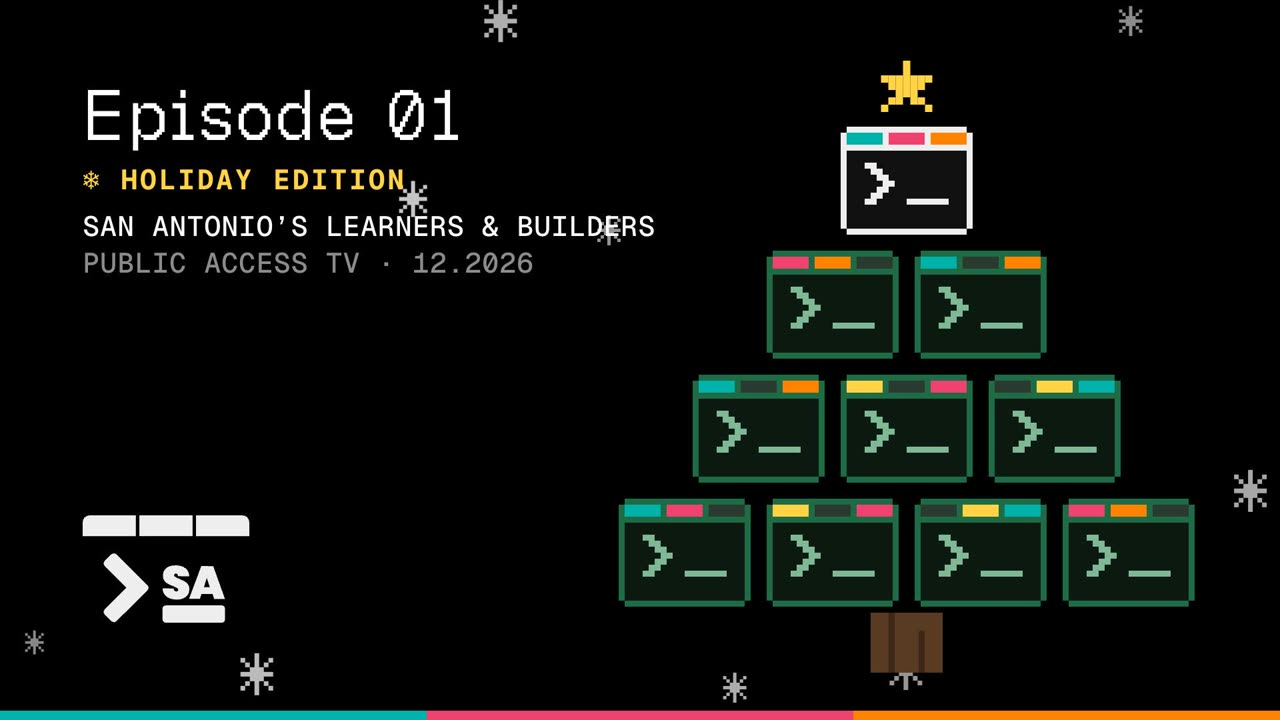
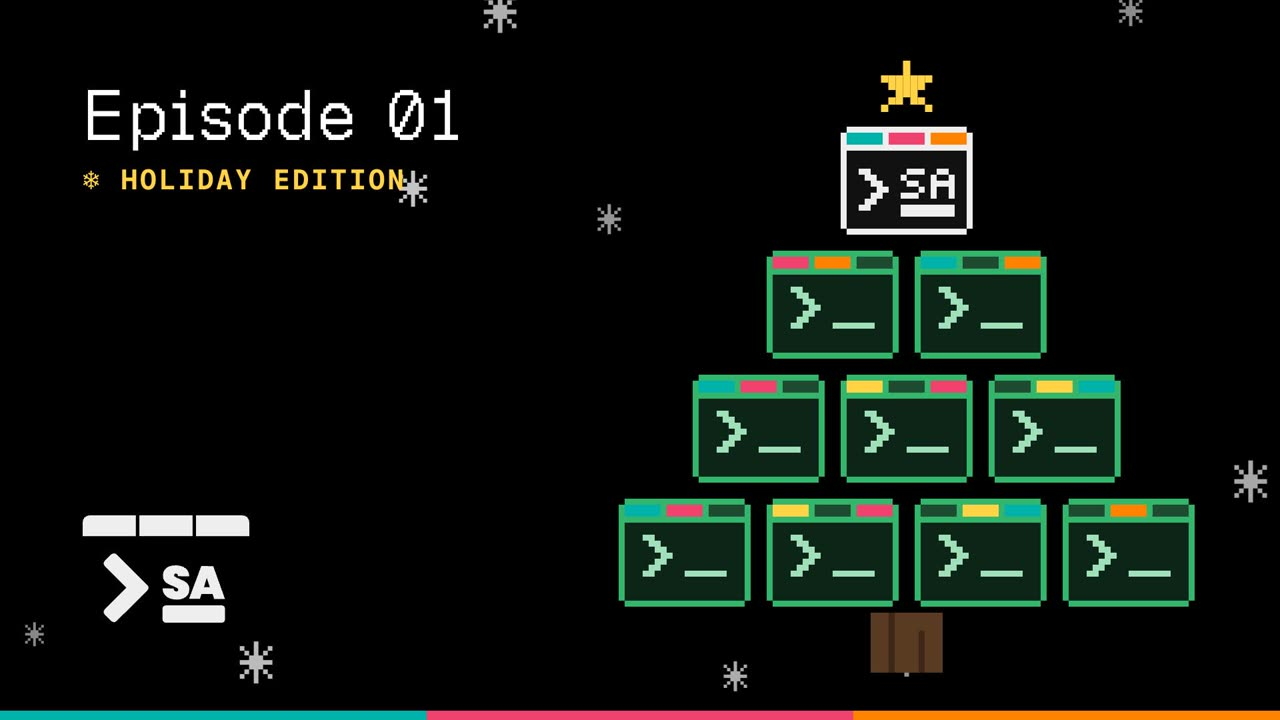
Make the tree episode 1's desk, with the DEVSA window on top
Episode 1's desk was the alt logo with snow, which on camera read as the
logo with weather, not as Christmas, and its opener tree had a plain >_ in
the top window, so nothing in the tree was DEVSA's own mark. The desk at
/slides/desk-ep1 is now the opener's tree, sized for the monitor's place in
the frame: brighter evergreen windows, their tabs as lights, a larger star,
and the snow passing behind the whole tree instead of through its gaps. Its
top window is the DEVSA mark in pixels, the three tabs over >SA and the
cursor bar, and the opener's tree now draws the same window in the same
greens, so viewers watch the tree build and then find it on the desk.

The opener also loses the learners-and-builders and public-access lines under
Holiday edition, as episode 2's did.

diff --git a/public/slides/desk-ep1/index.html b/public/slides/desk-ep1/index.html
@@ -1,15 +1,14 @@
 <!doctype html>
 <html lang="en"><head><meta charset="utf-8">
 <meta name="robots" content="noindex">
-<meta name="viewport" content="width=device-width,initial-scale=1"><title>DEVSA desk, Christmas</title>
-<!-- DEVSA TV episode 1 (December 2026, the Holiday edition): the TVSA studio desk monitor.
-     The alt logo centred at 40% of the width (unaltered; drawn at 90% so its white doesn't bloom on camera; the snow
-     passes behind it, never through it), with the deck's pixel snowflakes falling in three clear sizes, mostly white,
-     the coloured ones always among the large, and plus-shaped star dots twinkling between them.
-     Built for camera scale: on the desk the monitor is about 1/6 of its pixels in the broadcast frame, so the smallest
-     piece is 6 px per flake pixel (a 42 px flake) and the star dots are 12 px units.
-     ?bg=0a0a0a tries a near-black ground (default pure black). Loops every 12.8 s. Served at devsa.community/slides/<this folder> (unlisted in lib/slides.ts). The video exports and their
-     export.cjs live with the source in ~/Downloads/devsa-tvsa-desk-ep1 and -ep2. -->
+<meta name="viewport" content="width=device-width,initial-scale=1"><title>DEVSA desk, Christmas tree</title>
+<!-- DEVSA TV episode 1 (December 2026, the Holiday edition): the TVSA studio desk monitor, tree version.
+     The opener's tree, built for camera scale: pixel windows in brighter evergreen, their tabs as lights twinkling in
+     the tab colours and gold, a gold pixel star, a trunk. The top window is the DEVSA mark in pixels: the three tabs in
+     teal, pink and orange over a dark window with >SA and the cursor bar (the DEVSA window sticker's drawing).
+     The deck's pixel snow falls in three sizes behind the tree, mostly white, the coloured ones among the large.
+     ?bg=0a0a0a tries a near-black ground (default pure black). Loops every 12.8 s. Served at devsa.community/slides/desk-ep1 (unlisted in lib/slides.ts). The video exports and their
+     export.cjs live with the source in ~/Downloads/devsa-tvsa-desk-ep1. -->
 <style>
 html,body{margin:0;height:100%;background:#000;overflow:hidden}
 canvas{display:block;width:100vw;height:100vh;object-fit:contain}
@@ -19,46 +18,82 @@ canvas{display:block;width:100vw;height:100vh;object-fit:contain}
 <script>
 const W = 1920, H = 1080, g = document.getElementById("c").getContext("2d")
 const BG = "#" + ((new URLSearchParams(location.search).get("bg") || "000000").replace(/[^0-9a-f]/gi, "").slice(0, 6) || "000000")
-const COLORS = ["#00b2a9", "#ef426f", "#ff8200"]
-const LOOP = 12800
-const LOGO = new Image(); LOGO.src = "devsa-alt-logo.svg"
-const LW = 768, LH = LW * 551.77 / 735.7, LX = (W - LW) / 2, LY = (H - LH) / 2
+const TEAL = "#00b2a9", PINK = "#ef426f", ORANGE = "#ff8200", GOLD = "#ffd343", COLORS = [TEAL, PINK, ORANGE]
+const LIGHTS = [TEAL, PINK, ORANGE, GOLD]
+const LOOP = 12800, TAU = Math.PI * 2
 
-// the deck's pixel snowflake, in three sizes
+// ---- the tree: 1 + 2 + 3 + 4 windows, each 22 x 18 pixels ----
+const PX = 10, WW = 22 * PX, WH = 18 * PX, GAP = 24, CX = W / 2, TOP = 150
+const WINS = []
+for (let r = 0; r < 4; r++) { const n = r + 1, rowW = n * WW + (n - 1) * GAP; for (let i = 0; i < n; i++) WINS.push([Math.round(CX - rowW / 2 + i * (WW + GAP)), TOP + r * (WH + GAP), r === 0]) }
+
+function cell(x, y, col, cx, cy, w = 1, h = 1) { g.fillStyle = col; g.fillRect(x + cx * PX, y + cy * PX, w * PX, h * PX) }
+
+// an evergreen window: frame, dark body, a >_ face, three tabs as lights
+function evergreen(x, y, k, t) {
+  const FRAME = "#34b56c", BODY = "#0d2418", FACE = "#9fe0b8"
+  cell(x, y, FRAME, 1, 0, 20, 18); cell(x, y, FRAME, 0, 1, 22, 16); cell(x, y, BODY, 1, 4, 20, 13)
+  for (let j = 0; j < 3; j++) {
+    const on = Math.sin(TAU * (t / LOOP) * 3 + k * 1.7 + j * 2.3) > -0.3
+    cell(x, y, on ? LIGHTS[(k * 3 + j) % 4] : "#1d4a31", 1 + j * 7, 1, 6, 2)
+  }
+  for (const [cx, cy] of [[4, 7], [5, 8], [6, 9], [7, 10], [6, 11], [5, 12], [4, 13]]) cell(x, y, FACE, cx, cy, 2, 1)
+  cell(x, y, FACE, 11, 13, 7, 1)
+}
+
+// the top window: the DEVSA mark in pixels
+function devsa(x, y) {
+  const INK = "#eeeeee"
+  cell(x, y, INK, 1, 0, 20, 18); cell(x, y, INK, 0, 1, 22, 16); cell(x, y, "#111", 1, 4, 20, 13)
+  cell(x, y, TEAL, 1, 1, 6, 2); cell(x, y, PINK, 8, 1, 6, 2); cell(x, y, ORANGE, 15, 1, 6, 2)
+  for (const [cx, cy] of [[3, 7], [4, 8], [5, 9], [6, 10], [5, 11], [4, 12], [3, 13]]) cell(x, y, INK, cx, cy, 2, 1)
+  const S = [".###", "#...", ".##.", "...#", "###."], A = [".##.", "#..#", "####", "#..#", "#..#"]
+  for (let r = 0; r < 5; r++) for (let c = 0; c < 4; c++) {
+    if (S[r][c] === "#") cell(x, y, INK, 10 + c, 7 + r)
+    if (A[r][c] === "#") cell(x, y, INK, 15 + c, 7 + r)
+  }
+  cell(x, y, INK, 10, 13, 9, 2)
+}
+
+const STAR = ["...#...", "...#...", "#######", ".#####.", "..###..", ".##.##.", "#.....#"]
+function star(t) {
+  const s = 14, x0 = CX - 3.5 * s, y0 = TOP - 8 * s
+  g.fillStyle = Math.sin(TAU * (t / LOOP) * 4) > -0.5 ? GOLD : "#e0a800"
+  STAR.forEach((row, ry) => [...row].forEach((ch, rx) => { if (ch === "#") g.fillRect(x0 + rx * s, y0 + ry * s, s, s) }))
+}
+function trunk() {
+  const yb = TOP + 4 * (WH + GAP) - GAP + 2 * PX, tw = 10 * PX, th = 8 * PX
+  g.fillStyle = "#6b4528"; g.fillRect(CX - tw / 2, yb, tw, th)
+  g.fillStyle = "#4a2f1a"; g.fillRect(CX - tw / 2 + 2 * PX, yb, PX, th); g.fillRect(CX + PX, yb + 2 * PX, PX, th - 2 * PX)
+}
+
+// ---- the deck's pixel snow, three sizes ----
 const FLAKE = ["...#...", "#..#..#", ".#.#.#.", "..###..", "#######", "..###..", ".#.#.#.", "#..#..#", "...#..."]
 let r = 7; const rnd = () => (r = (r * 16807) % 2147483647) / 2147483647
 const SIZES = [{ px: 6, n: 10, laps: 2, a: .7 }, { px: 9, n: 8, laps: 2, a: .85 }, { px: 12, n: 8, laps: 1, a: 1 }]
 const FLAKES = []
 SIZES.forEach((s) => { for (let i = 0; i < s.n; i++) FLAKES.push({ ...s, x: rnd() * W, ph: rnd(), sway: 24 + rnd() * 36, col: "#fff" }) })
-// the coloured flakes: four of the large ones, one per tab colour plus teal again
 FLAKES.filter((f) => f.px === 12).slice(0, 4).forEach((f, i) => { f.col = COLORS[i % 3] })
 function flake(f, t) {
-  // each flake crosses the screen once or twice per loop, so the loop is seamless
   const k = ((t / LOOP) * f.laps + f.ph) % 1, h = 9 * f.px
-  const y = -h + k * (H + 2 * h), x = f.x + Math.sin((t / LOOP) * Math.PI * 2 * f.laps + f.ph * 6) * f.sway
+  const y = -h + k * (H + 2 * h), x = f.x + Math.sin((t / LOOP) * TAU * f.laps + f.ph * 6) * f.sway
   g.globalAlpha = f.a; g.fillStyle = f.col
   FLAKE.forEach((row, ry) => [...row].forEach((c, rx) => { if (c === "#") g.fillRect(Math.round(x + rx * f.px), Math.round(y + ry * f.px), f.px, f.px) }))
-  g.globalAlpha = 1
-}
-// star dots: a plus of 12 px pixels in the tab colours, twinkling in place
-const DOTS = Array.from({ length: 12 }, (_, i) => [80 + rnd() * (W - 160), 70 + rnd() * (H - 140), COLORS[i % 3], rnd() * Math.PI * 2])
-function dot([x, y, col, ph], t) {
-  const k = .5 + .5 * Math.sin((t / LOOP) * Math.PI * 4 + ph); if (k < .2) return
-  const s = 12, X = Math.round(x / s) * s, Y = Math.round(y / s) * s
-  g.globalAlpha = .35 + .65 * k; g.fillStyle = col
-  g.fillRect(X, Y, s, s); g.fillRect(X - s, Y, s, s); g.fillRect(X + s, Y, s, s); g.fillRect(X, Y - s, s, s); g.fillRect(X, Y + s, s, s)
   g.globalAlpha = 1
 }
 
 function draw(t) {
   g.fillStyle = BG; g.fillRect(0, 0, W, H)
-  DOTS.forEach((d) => dot(d, t))
-  FLAKES.forEach((f) => flake(f, t))
-  g.fillStyle = BG; g.fillRect(LX - 28, LY - 28, LW + 56, LH + 56)   // the snow passes behind the logo, never through it
-  g.globalAlpha = .9; g.drawImage(LOGO, LX, LY, LW, LH); g.globalAlpha = 1
+  FLAKES.forEach((f) => flake(f, t))          // the snow falls behind the tree
+  // the tree's silhouette, so the snow passes behind it rather than through the gaps between its windows
+  g.fillStyle = BG
+  for (let r = 0; r < 4; r++) { const n = r + 1, rowW = n * WW + (n - 1) * GAP; g.fillRect(CX - rowW / 2 - 16, TOP + r * (WH + GAP) - 16, rowW + 32, WH + GAP + 16) }
+  trunk()
+  WINS.forEach(([x, y, top], k) => top ? devsa(x, y) : evergreen(x, y, k, t))
+  star(t)
 }
 window.draw = draw
-window.ready = new Promise((res) => { if (LOGO.complete) res(); else LOGO.onload = res })
-window.ready.then(() => { if (!/export/.test(location.search)) { const t0 = performance.now(); const tick = (ms) => { draw(ms - t0); requestAnimationFrame(tick) }; requestAnimationFrame(tick) } else draw(0) })
+window.ready = Promise.resolve()
+if (!/export/.test(location.search)) { const t0 = performance.now(); const tick = (ms) => { draw(ms - t0); requestAnimationFrame(tick) }; requestAnimationFrame(tick) } else draw(0)
 </script>
 </body></html>

diff --git a/public/slides/devsa-tv-ep1-nov18/index.html b/public/slides/devsa-tv-ep1-nov18/index.html
@@ -343,8 +343,6 @@ body:not(.idle) #hud{opacity:1}
     <div class="op-meta">
       <p class="pixel in" style="--i:0;font-size:104px">Episode 01</p>
       <p class="in holiday" style="--i:1">&#10052; Holiday edition</p>
-      <p class="in" style="--i:1">San Antonio&rsquo;s learners &amp; builders</p>
-      <p class="in dim" style="--i:2">Public access TV &middot; 12.2026</p>
     </div>
     <img class="op-mark in" style="--i:3" src="assets/marks/devsa-alt-logo.svg" alt="DEVSA">
   </section>
@@ -660,7 +658,7 @@ if ($("#calGrid")) {
 if ($("#wall")) $("#wall").innerHTML = CONFIG.wall.map((w) => { const [f, flag] = w.split(":"); return `<div class="${flag || ""}"><img src="assets/wall/${esc(f)}" alt=""></div>` }).join("")
 // ---------- the opener's tree: the pyramid of pixel windows, dressed for the holidays. Evergreen frames, the
 // windows' three tabs as lights twinkling in the brand colors and gold, a pixel star on top and a trunk below.
-// The top window stays the lit DEVSA window. It builds once, then twinkles while the opener is on screen. ----------
+// The top window is the DEVSA mark in pixels (>SA), matching the studio desk's tree. It builds once, then twinkles while the opener is on screen. ----------
 ;(function tree() {
   const c = $("#pyr"), sl = $("#opener"); if (!c) return
   const g = c.getContext("2d"), TEAL = "#00b2a9", PINK = "#ef426f", ORANGE = "#ff8200", GOLD = "#ffd343"
@@ -669,7 +667,7 @@ if ($("#wall")) $("#wall").innerHTML = CONFIG.wall.map((w) => { const [f, flag] 
   for (let r = 3; r >= 0; r--) { const n = r + 1, rowW = n * w + (n - 1) * gap; for (let i = 0; i < n; i++) wins.push([Math.round(cx - rowW / 2 + i * (w + gap)), top + r * (h + gap), r === 0]) }
   function win(x, y, lit, a, t, k) {
     const W = 22, H = 18
-    const frame = lit ? "#eeeeee" : "#1f6b45", body = lit ? "#111" : "#0c1a12", face = lit ? "#eeeeee" : "#7fb894"
+    const frame = lit ? "#eeeeee" : "#34b56c", body = lit ? "#111" : "#0d2418", face = lit ? "#eeeeee" : "#9fe0b8"   // the desk tree's greens
     const P = (col, qx, qy, ww = 1, hh = 1) => { g.fillStyle = col; g.fillRect(x + qx * px, y + qy * px, ww * px, hh * px) }
     g.globalAlpha = a
     P(frame, 1, 0, W - 2, H); P(frame, 0, 1, W, H - 2); P(body, 1, 4, W - 2, H - 5)
@@ -677,10 +675,19 @@ if ($("#wall")) $("#wall").innerHTML = CONFIG.wall.map((w) => { const [f, flag] 
       // each tab is a light: its own color, on or dim on its own slow beat
       const col = lit ? [TEAL, PINK, ORANGE][j] : LIGHTS[(k * 3 + j) % 4]
       const on = lit || Math.sin(t / 520 + k * 1.7 + j * 2.3) > -0.35
-      P(on ? col : "#2a3a30", 1 + j * 7, 1, 6, 2)
+      P(on ? col : "#1d4a31", 1 + j * 7, 1, 6, 2)
     }
-    for (const [qx, qy] of [[4, 6], [5, 7], [6, 8], [7, 9], [6, 10], [5, 11], [4, 12]]) P(face, qx, qy, 2, 1)
-    P(face, 11, 12, 7, 1); g.globalAlpha = 1
+    if (lit) {
+      // the top window is the DEVSA mark in pixels, >SA and the cursor bar, as on the studio desk's tree
+      for (const [qx, qy] of [[3, 7], [4, 8], [5, 9], [6, 10], [5, 11], [4, 12], [3, 13]]) P(face, qx, qy, 2, 1)
+      const S = [".###", "#...", ".##.", "...#", "###."], A = [".##.", "#..#", "####", "#..#", "#..#"]
+      for (let r = 0; r < 5; r++) for (let c = 0; c < 4; c++) { if (S[r][c] === "#") P(face, 10 + c, 7 + r); if (A[r][c] === "#") P(face, 15 + c, 7 + r) }
+      P(face, 10, 13, 9, 2)
+    } else {
+      for (const [qx, qy] of [[4, 6], [5, 7], [6, 8], [7, 9], [6, 10], [5, 11], [4, 12]]) P(face, qx, qy, 2, 1)
+      P(face, 11, 12, 7, 1)
+    }
+    g.globalAlpha = 1
   }
   const STAR = ["...#...", "...#...", "#######", ".#####.", "..###..", ".##.##.", "#.....#"]
   function star(a, t) {

diff --git a/lib/slides.ts b/lib/slides.ts
@@ -41,7 +41,7 @@ export const DECKS: Deck[] = [
   {
     slug: "desk-ep1",
     title: "DEVSA TV desk · Episode 1",
-    summary: "The TVSA studio desk monitor for the Holiday edition: the alt logo with pixel snow. Open full screen and leave it.",
+    summary: "The TVSA studio desk monitor for the Holiday edition: the opener's tree of pixel windows, the DEVSA window on top, with pixel snow. Open full screen and leave it.",
     date: "2026-11-18",
     where: "TVSA studios",
     slides: 1,
